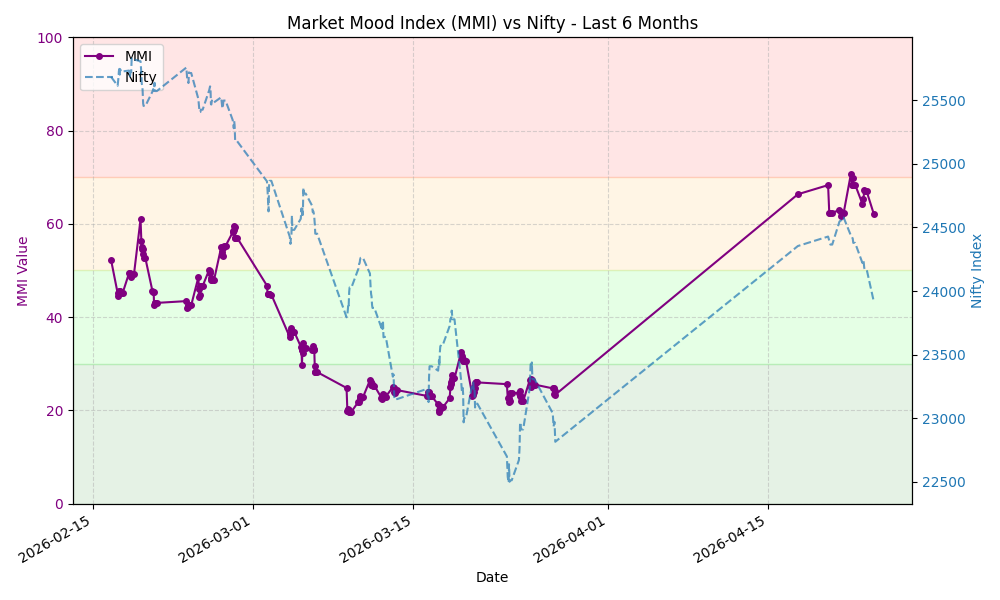
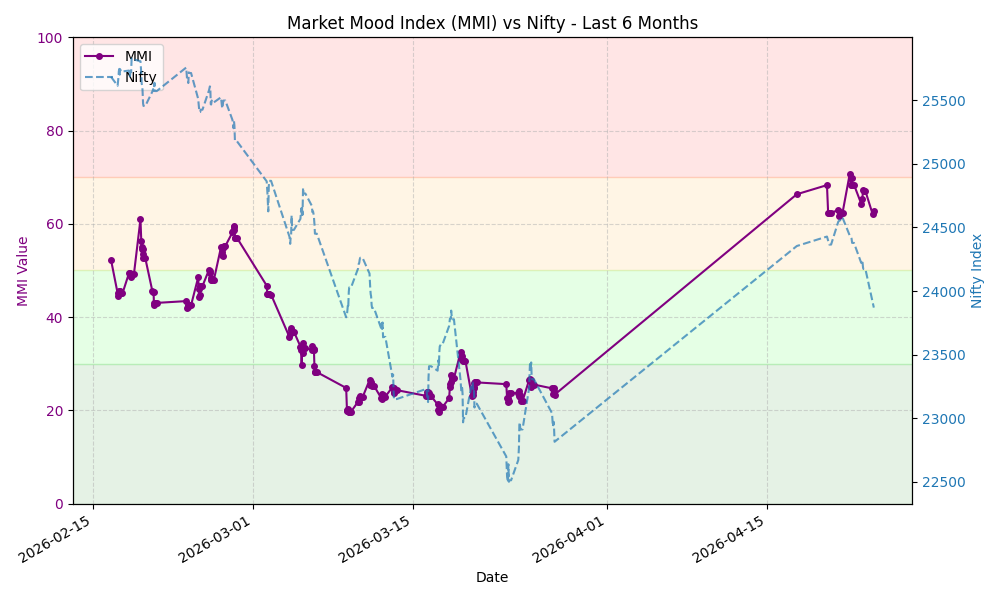
Update MMI data and chart

diff --git a/README.md b/README.md
@@ -7,8 +7,8 @@ This repository automatically fetches the MMI value, stores the history, and gen
 
 ## Latest MMI Value
 
-**62.08** - **Greed**
-<small>Last Updated: 2026-04-24 05:33 UTC</small>
+**62.83** - **Greed**
+<small>Last Updated: 2026-04-24 08:03 UTC</small>
 
 ## MMI Trend (Last 30 Days)
 